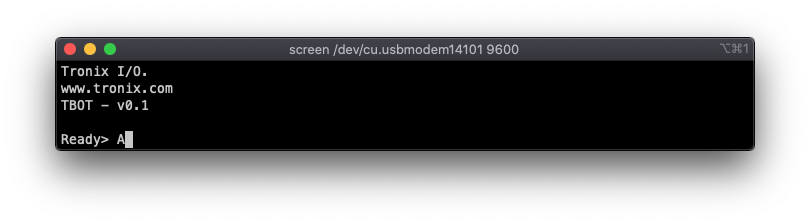
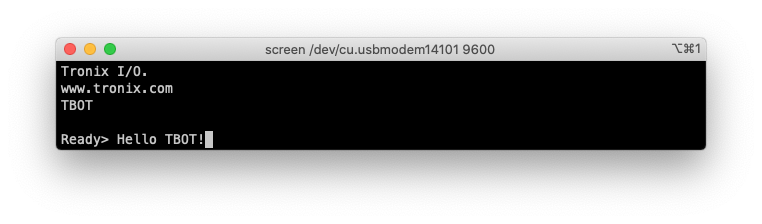
Update TX/RX

Changed region(s): [[0.0302, 0.1562, 0.9659, 0.8125]]

diff --git a/Code/eusart-txrx/README.md b/Code/eusart-txrx/README.md
@@ -34,8 +34,8 @@ CONFIG LVP=ON
 ; Echo RX Character.
 
 ; GPR BANK0.
-PSECT cstackBANK0,class=BANK0,space=1,delta=1
-eusartRX:   DS  1
+PSECT	cstackBANK0,class=BANK0,space=1,delta=1
+u8EusartRX:   DS  1
 
 ; MCU Definitions.
 ; BANKS.
@@ -82,12 +82,12 @@ eusartRX:   DS  1
 #define	ASCII_CR    0xD
 
 ; Reset Vector.
-PSECT reset_vec,class=CODE,space=0,delta=2
+PSECT	reset_vec,class=CODE,space=0,delta=2
 resetVector:
     GOTO    main
 
 ; Main.
-PSECT cinit,class=CODE,space=0,delta=2
+PSECT	cinit,class=CODE,space=0,delta=2
 main:
     ; MCU Initialization.
     ; Internal Oscillator Settings.
@@ -229,7 +229,7 @@ loop:
     ; Carriage Return ?
     MOVLB   BANK0
     MOVLW   ASCII_CR
-    XORWF   eusartRX, W
+    XORWF   u8EusartRX, W
     BTFSS   STATUS, Z
     BRA	    loop
 
@@ -240,26 +240,24 @@ loop:
 
 ; Functions.
 _eusartRX:
+    MOVLB   BANK0
+    BTFSS   RCIF
+    BRA	    $-1
     MOVLB   BANK3
     BTFSS   OERR
     BRA	    $+3
     BCF	    CREN
     BSF	    CREN
-    MOVLB   BANK0
-    BTFSS   RCIF
-    BRA	    $-1
-    MOVLB   BANK3
     MOVF    RC1REG, W
     MOVLB   BANK0
-    MOVWF   eusartRX
+    MOVWF   u8EusartRX
     RETURN
 
 _eusartTX:
     MOVLB   BANK3
-    MOVWF   TX1REG
-    MOVLB   BANK0
-    BTFSS   TXIF
+    BTFSS   TRMT
     BRA	    $-1
+    MOVWF   TX1REG
     RETURN
 
 _eusartTXString:
@@ -303,12 +301,12 @@ _writeStringURL:
     RETURN
 
 ; FPM Strings.
-PSECT stringtext,class=STRCODE,space=0,delta=2
+PSECT	stringtext,class=STRCODE,space=0,delta=2
 stringREADY:
     DB  0xD, 0xA, 0xD, 0xA, 'R','e','a','d','y','>',' ', 0x0
 
 stringTBOT:
-    DB  0xD, 0xA, 'T','B','O','T',' ','-',' ','v','0','.','1', 0x0
+    DB  0xD, 0xA, 'T','B','O','T', 0x0
 
 stringTRONIX:
     DB  0xD, 0xA, 0xD, 0xA, 'T','r','o','n','i','x',' ','I','/','O','.', 0x0
@@ -316,7 +314,7 @@ stringTRONIX:
 stringURL:
     DB  0xD, 0xA, 'w','w','w','.','t','r','o','n','i','x','.','c','o','m', 0x0
 
-    END	    resetVector
+    END	resetVector
 ```
 
 ## Oscilloscope.
